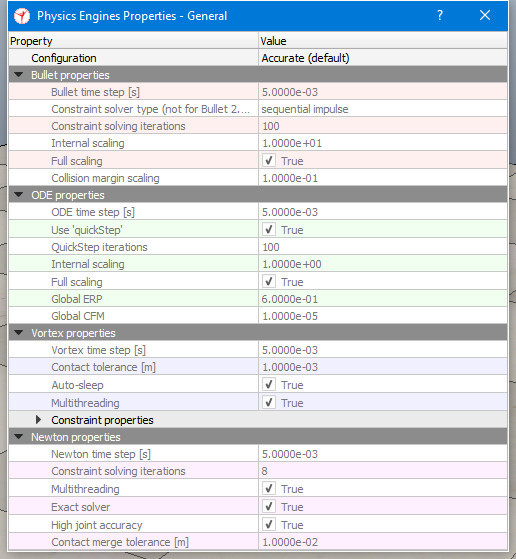
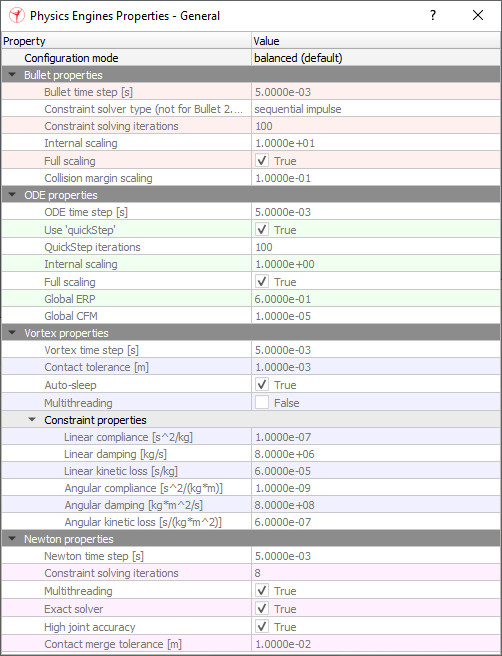
added release date, removed hybrid mode mentions

diff --git a/en/designingDynamicSimulations.htm b/en/designingDynamicSimulations.htm
@@ -73,7 +73,7 @@
 <p>Non-static shapes will fall (i.e. be influenced by gravity) if they are not otherwise constrained. Dynamic constraints between shapes can be set-up by attaching two shapes together with a <em>dynamically enabled</em> <a href="joints.htm">joint</a> or with a <em>dynamically enabled</em> <a href="forceSensors.htm">force sensor</a>. <br>
 </p>
 
-<li><strong><a name="dynamicallyEnabledJoints"></a>Dynamically enabled joints</strong> are joints that are in force or torque mode or that operate in hybrid fashion (see the <a href="jointProperties.htm">joint properties</a>), and that have a shape as parent object and exactly one child object which must be a non-static shape.  In addition, it is possible to involve a joint in a <em>loop closure configuration</em>. In that case the joint has to connect to the two shapes through a <a href="dummies.htm">dummy</a>-dummy link (where the link type has to be <strong>Dynamics, overlap constraint</strong>). For dummy-dummy links, refer to the <a href="dummyPropertiesDialog.htm">dummy properties</a>.<br>
+<li><strong><a name="dynamicallyEnabledJoints"></a>Dynamically enabled joints</strong> are joints that are in force or torque mode, and that have a shape as parent object and exactly one child object which must be a non-static shape.  In addition, it is possible to involve a joint in a <em>loop closure configuration</em>. In that case the joint has to connect to the two shapes through a <a href="dummies.htm">dummy</a>-dummy link (where the link type has to be <strong>Dynamics, overlap constraint</strong>). For dummy-dummy links, refer to the <a href="dummyPropertiesDialog.htm">dummy properties</a>.<br>
 </li>
 
 <li><strong><a name="dynamicallyEnabledForceSensors"></a>Dynamically enabled force sensors</strong> are force sensors that have a shape as parent object and exactly one child object which must be a non-static shape.  In addition, it is possible to involve a force sensor in a <em>loop closure configuration</em>. In that case the force sensor has to connect to the two shapes through a <a href="dummies.htm">dummy</a>-dummy link (where the link type has to be <strong>Dynamics, overlap constraint</strong>). For dummy-dummy links, refer to the <a href="dummyPropertiesDialog.htm">dummy properties</a>.<br>
@@ -90,14 +90,14 @@
 <p class=imageLabel>[Example of valid <em>dynamically enabled joint</em> situations]</p>
 <br>
 
-<p>It is very important that you follow above guidelines in order to obtain dynamically enabled joints or force sensors. During simulation, if CoppeliaSim discovers force sensors that are not dynamically enabled, it will display a small warning icon next to its name in the scene <a href="userInterface.htm#SceneHierarchy">hierarchy view</a>. The same happens to joints in force/torque mode or that are supposed to operate in a hybrid fashion, and that are not dynamically enabled.<br>
+<p>It is very important that you follow above guidelines in order to obtain dynamically enabled joints or force sensors. During simulation, if CoppeliaSim discovers force sensors that are not dynamically enabled, it will display a small warning icon next to its name in the scene <a href="userInterface.htm#SceneHierarchy">hierarchy view</a>. The same happens to joints in force/torque mode, and that are not dynamically enabled.<br>
 </p>
 
 <p>Following are a few example situations where a joint won't be dynamically enabled:<br>
 </p>
 
 <li>
-the joint is not in force or torque mode, and the joint is not operating in a hybrid fashion.
+the joint is not in force or torque mode.
 </li>
 
 <li>
@@ -297,7 +297,8 @@ The attachment point is a simple force sensor. Assembling the gripper model with
 </td></tr></table> 
 
 
-<p><strong>Use reasonable sizes</strong>. Shapes that are very long and thin, or that are too small might behave strangely (jittering, jumping). Try keeping sizes above 3 centimeters if possible. Otherwise you can adjust the internal scaling parameter in the <a href="dynamicsEngineDialog.htm">dynamics engines general properties</a> dialog.<br>
+<p><strong>Use reasonable sizes</strong>. Shapes that are very long and thin, or that are too small might behave strangely (jittering, jumping). Try keeping sizes above 3 centimeters if possible. Otherwise you can adjust the internal scaling parameter in the <a href="dynamicsEngineDialog.htm">dynamics engines general properties</a> dialog.</p>
+<p>This requirement can be loosened by using a different engine, or by selecting a more precise <a href="dynamicsEngineDialog.htm#configurationMode">dynamics configuration mode</a>.<br>
 </p>
 <br>
 
@@ -306,7 +307,8 @@ The attachment point is a simple force sensor. Assembling the gripper model with
 <a name="masses"></a>Design consideration 7
 </td></tr></table> 
 
-<p><strong>Keep masses similar and not too light</strong>. When linking two shapes with a dynamically enabled joint or a dynamically enabled force sensor, make sure the two shape's masses are not too different (m1&lt;10*m2 and m2&lt;10*m1), otherwise the joint or force sensor might be very <em>soft</em> and <em>wobbly</em> and present large positional/orientational errors (this effect can however also be used as a <em>natural damping</em> sometimes). Additionally, very low mass shapes should be avoided since they won't be able to exert very large forces onto other shapes (even if propelled by high force actuators!).<br>
+<p><strong>Keep masses similar and not too light</strong>. When linking two shapes with a dynamically enabled joint or a dynamically enabled force sensor, make sure the two shape's masses are not too different (m1&lt;10*m2 and m2&lt;10*m1), otherwise the joint or force sensor might be very <em>soft</em> and <em>wobbly</em> and present large positional/orientational errors (this effect can however also be used as a <em>natural damping</em> sometimes). Additionally, very low mass shapes should be avoided since they won't be able to exert very large forces onto other shapes (even if propelled by high force actuators!).</p>
+<p>This requirement can be loosened by using a different engine, or by selecting a more precise <a href="dynamicsEngineDialog.htm#configurationMode">dynamics configuration mode</a>.<br>
 </p>
 <br>
 
@@ -316,7 +318,8 @@ The attachment point is a simple force sensor. Assembling the gripper model with
 </td></tr></table> 
 
 
-<p><strong>Keep principal moments of inertia* relatively large</strong>. Try keeping the <em>principal moments of inertia / mass</em> (*refer to the <a href="shapeDynamicsProperties.htm">shape dynamics properties</a> dialog) relatively large, otherwise mechanical chains might be difficult to control and/or might behave in a strange way.<br>
+<p><strong>Keep principal moments of inertia* relatively large</strong>. Try keeping the <em>principal moments of inertia / mass</em> (*refer to the <a href="shapeDynamicsProperties.htm">shape dynamics properties</a> dialog) relatively large, otherwise mechanical chains might be difficult to control and/or might behave in a strange way.</p>
+<p>This requirement can be loosened by using a different engine, or by selecting a more precise <a href="dynamicsEngineDialog.htm#configurationMode">dynamics configuration mode</a>.<br>
 </p>
 <br>
 

diff --git a/en/versionInfo.htm b/en/versionInfo.htm
@@ -44,7 +44,7 @@ Version history:
 
 
 <table class=subsectionTable><tr class=subsectionTd>
- <td class=subsectionTd><a name="coppeliaSim4.2.0" id="coppeliaSim4.2.0"></a>CoppeliaSim V4.2.0 (not yet released)</td></tr></table> 
+ <td class=subsectionTd><a name="coppeliaSim4.2.0" id="coppeliaSim4.2.0"></a>CoppeliaSim V4.2.0 (April 6th 2021)</td></tr></table> 
  
 <li>Fixed several bugs. Thanks to Adrian Schoisengeier, Mathias Thor, Francisco Marin, Nikita Aigner, Charles Han, Shai Levy, Bobovsky Zdenko, Salvatore Sessa, Jakob Ambsdorf, Hayato Amaike and Kevin Thomas for noticing them or helping to resolve them.</li>
 <li><a href="scripts.htm">All script types</a> now support <a href="threadedAndNonThreadedCode.htm">threaded or non-threaded operation</a>. Threaded operation is handled via coroutines that are preemptively interrupted by CoppeliaSim. Except for its code, there is no difference anymore between a threaded and non-threaded script. Old threaded child scripts are still supported for backward compatibility, but CoppeliaSim will try to automatically convert them. If this is not desired, adjust value <em>keepOldThreadedScripts</em> in <em>system/usrset.txt</em>.</li>
@@ -79,6 +79,7 @@ Version history:
 <li>Added following API functions: <a href="regularApi/simIsDynamicallyEnabled.htm">sim.isDynamicallyEnabled</a>, <a href="regularApi/simGetJointDependency.htm">sim.getJointDependency</a>, <a href="regularApi/simChangeEntityColor.htm">sim.changeEntityColor</a> and <a href="regularApi/simRestoreEntityColor.htm">sim.restoreEntityColor</a>.</li>
 <li>Following Docker image is available for running CoppeliaSim in a container: <a href="https://github.com/CoppeliaRobotics/docker-image-coppeliasim" target="_blank">docker-image-coppeliasim</a></li>
 <li>The default scene will now pause simulation when a script error is raised.</li>
+<li>Added an additional <a href="dynamicsEngineDialog.htm#configurationMode">dynamics configuration mode</a> that performs smaller dynamics steps and/or does more calculation iterations. Went from [<strong>very accurate</strong>, <strong>accurate (default)</strong>, <strong>fast</strong>, <strong>very fast</strong>, <strong>custom</strong>] to: [<strong>very accurate</strong>, <strong>accurate</strong>, <strong>balanced (default), fast</strong>, <strong>very fast</strong>, <strong>custom</strong>].</li>
 <li>The Windows installer/uninstaller can now silently operate by invoking it with following command-line arguments:<em> /silent /hide /[silent]=true</em></li>
 <br>
 
@@ -1142,8 +1143,6 @@ Removed an OpenGL instruction that caused opengl driver crashes on some graphic 
 Warning message appears now when a scene was not saved (when leaving or discarding a scene) </li>
 <li>
 Improved and corrected the BubbleRob tutorial </li>
-<li>
-Corrected a small bug that appeared with joints in hybrid dependent mode </li>
 <li>
 New dongle drivers </li>
 <li>

diff --git a/en/dynamicsEngineDialog.htm b/en/dynamicsEngineDialog.htm
@@ -28,7 +28,7 @@
 
 <p>Each engine has specific parameters that can be set globally (see hereafter) or locally (in the <a href="shapeDynamicEngineProperties.htm">material properties</a> or in the <a href="jointDynamicEngineProperties.htm">dynamics engines properties related to joints</a>). </p>
 
-<li><strong>Configuration</strong>: allows to quickly switch between predefined or custom configurations for the dynamics engines. It is however highly recommended to keep the default configuration to avoid compatibility problems (e.g. combining models that are supposed to run each with different configuration settings will never give good results).</li>
+<li><a name="configurationMode"></a><strong>Configuration mode</strong>: allows to quickly switch between predefined or custom configurations for the dynamics engines. It is however recommended to keep the default configuration to avoid possible compatibility issues between models requiring different modes to run properly.</li>
 
 <br>
 <br>

diff --git a/en/regularApi/simCreateJoint.htm b/en/regularApi/simCreateJoint.htm
@@ -36,7 +36,7 @@ C synopsis
 <div><strong>jointType</strong>: <a href="../apiConstants.htm#sceneObjectSubTypes">sim_joint_revolute_subtype</a>, <a href="../apiConstants.htm#sceneObjectSubTypes">sim_joint_prismatic_subtype</a> or <a href="../apiConstants.htm#sceneObjectSubTypes">sim_joint_spherical_subtype</a><br>
 </div>
 <div><strong>jointMode</strong>: a <a href="../apiConstants.htm#jointModes">joint mode</a> value</div>
-<div><strong>options</strong>: bit-coded. For now only bit 0 is used (if set (1), the joint operates in hybrid mode)</div>
+<div><strong>options</strong>: reserved. Set to 0.</div>
 <div><strong>sizes</strong>: pointer to 2 values indicating the joint length and diameter. Can be nullptr for default values<br>
 </div>
 <div><strong>colorA</strong>: pointer to 4x3 values for joint color A (ambient_diffuse rgb, 3 reserved values (set to zero), specular rgb and emission rgb). Can be nullptr for default values<br>
